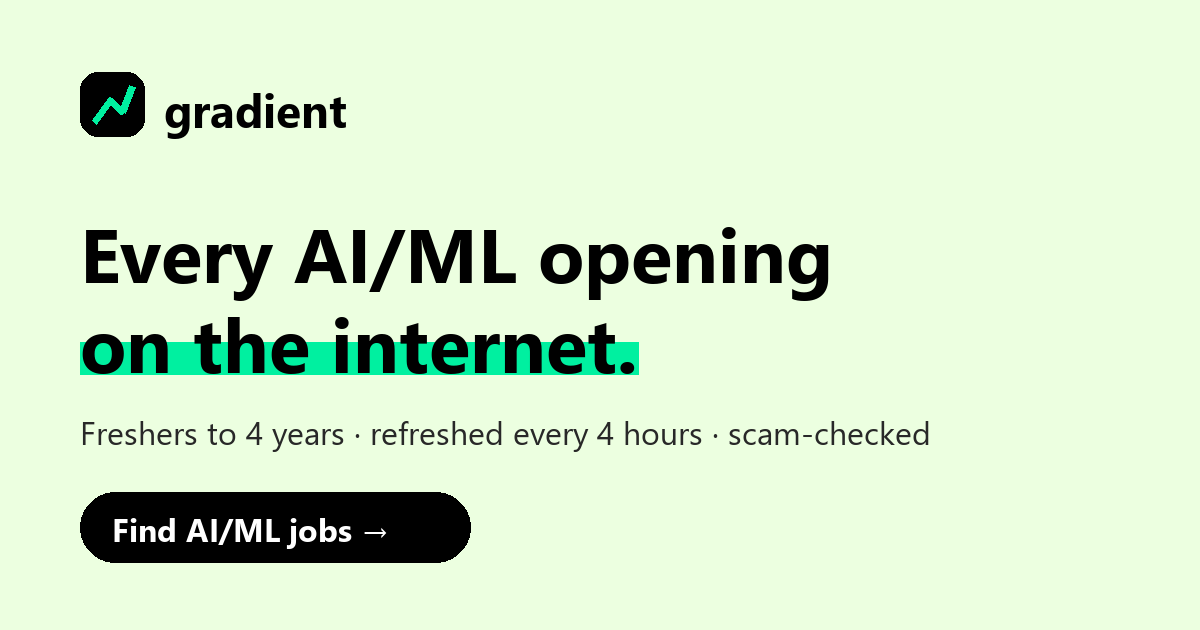
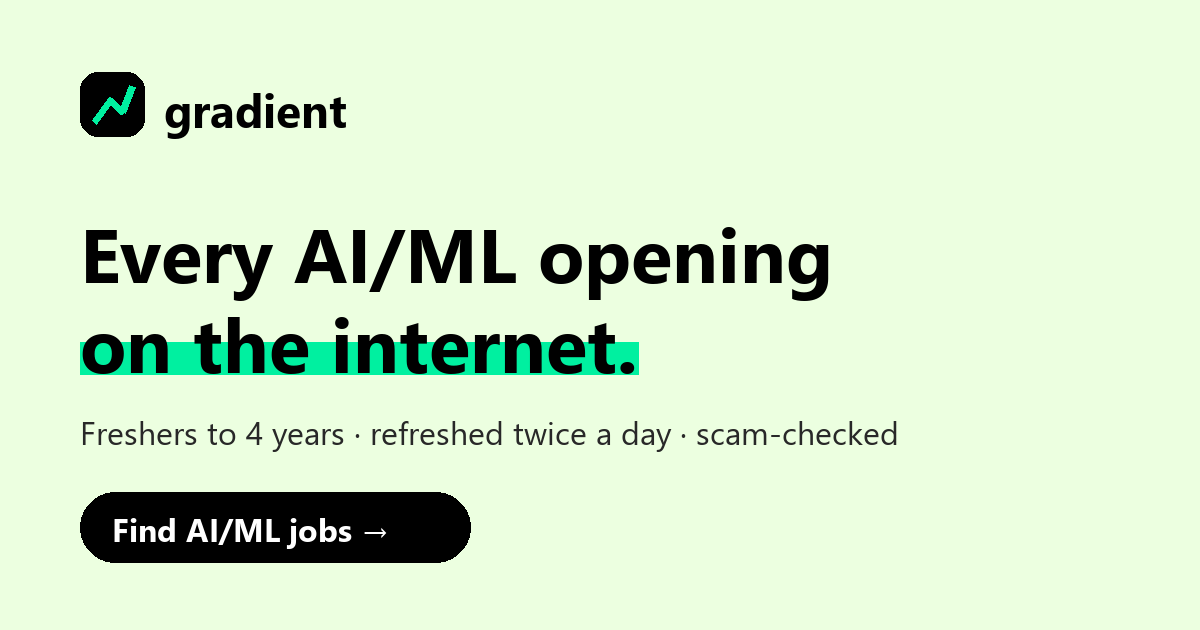
Scrape twice a day, and stop passing first-seen time off as the posted time
- Schedule: the scrape workflow now runs at 06:00 and 18:00 IST (cron 30 0,12 * * *);
  scrape_interval_hours defaults to 12, so the status page, next-run time and the
  "new since last sweep" stat follow it. Site copy, docs and the share image updated.
- Posted times: sources without a date (JazzHR, some YC, HN ...) used to show the time we
  first found the job as "posted by employer". Now posted_at is the source's date, or the
  sweep time when the job appears on a listing we had already swept, otherwise unknown.
  Recency filters and the newest sort use only real posted times (undated jobs sort after
  dated ones), the job page says "Not given", and each sweep clears the borrowed times
  stored before this change. Jobs filter "Last 4h" becomes "Last 12h".

Changed region(s): [[0.4317, 0.6635, 0.7708, 0.7238]]

diff --git a/frontend/src/pages/Home.tsx b/frontend/src/pages/Home.tsx
@@ -16,7 +16,7 @@ const QUICK = [
 
 const FAQ = [
   ["Where do the jobs come from?", "Straight from employer career systems (Greenhouse, Lever, Ashby, Workday, SmartRecruiters, Workable, Recruitee), big-tech career APIs (Amazon, Microsoft), LinkedIn's public listings, SimplifyJobs' new-grad and internship lists, Hacker News 'Who is hiring' and remote job boards. Every apply link we see teaches us a new company board, so coverage grows every run."],
-  ["How fresh is it?", "A full sweep runs every 4 hours. Each job shows when the employer published it and when we first saw it, so 'live for 3h' means exactly that."],
+  ["How fresh is it?", "A full sweep runs twice a day (06:00 and 18:00 IST). Each job shows when the employer published it and when we first saw it, so 'live for 3h' means exactly that. When a site gives no date we say so instead of guessing."],
   ["How do you know a job is closed?", "Employer ATS feeds list every open role, so a job that disappears from two consecutive sweeps — or whose page returns 404 or 'no longer accepting applications' — moves to Closed with the evidence attached."],
   ["How do you spot scams?", "Every job gets an explainable trust score: posted on the employer's own system, apply link on the company domain, and cross-listings raise it; fees, WhatsApp/Telegram contact, free-mail recruiters, guaranteed income and copy-paste text across companies lower it. Likely scams are hidden by default."],
   ["Who is this for?", "Anyone from fresher to about 4 years of experience looking for ML, data science, AI/LLM, computer vision, NLP, MLOps, research or data roles. Senior, staff, lead and 5+ year roles are filtered out."],
@@ -55,7 +55,7 @@ export default function Home() {
             Every <span className="hl">AI/ML opening</span> on the internet. Built for 0–4 years.
           </h1>
           <p className="lead">
-            Pulled from company career portals, LinkedIn and job boards every 4 hours — de-duplicated, scam-checked,
+            Pulled from company career portals, LinkedIn and job boards twice a day — de-duplicated, scam-checked,
             and dropped the moment a role closes.
           </p>
           <form className="search-pill" onSubmit={search} role="search">
@@ -105,7 +105,7 @@ export default function Home() {
               <div className="empty" style={{ gridColumn: "1 / -1" }}>
                 {stats?.running
                   ? "The first sweep is running — new roles appear here as each source finishes."
-                  : "No roles yet. The next sweep fills this in; sweeps run every 4 hours."}
+                  : "No roles yet. The next sweep fills this in; sweeps run twice a day."}
               </div>
             )}
           </div>

diff --git a/frontend/src/pages/Jobs.tsx b/frontend/src/pages/Jobs.tsx
@@ -8,7 +8,7 @@ const FAMILIES = ["ML Engineer", "Data Scientist", "AI Engineer / LLM", "Researc
   "MLOps & ML Platform", "AI Product Engineering", "Data & Analytics"];
 const REGIONS: [string, string][] = [["bengaluru", "Bengaluru"], ["india", "India"], ["remote", "Remote"], ["north-america", "US & Canada"], ["europe", "Europe & UK"]];
 const EXP: [string, string][] = [["", "Any"], ["fresher", "Fresher / intern"], ["1-2", "1–2 yrs"], ["2-4", "2–4 yrs"], ["no-intern", "No internships"]];
-const POSTED: [string, string][] = [["", "Any time"], ["4", "Last 4h"], ["24", "24h"], ["72", "3 days"], ["168", "7 days"], ["720", "30 days"]];
+const POSTED: [string, string][] = [["", "Any time"], ["12", "Last 12h"], ["24", "24h"], ["72", "3 days"], ["168", "7 days"], ["720", "30 days"]];
 const TRUST: [string, string][] = [["default", "Hide scams"], ["genuine", "Genuine+"], ["verified", "Verified only"], ["all", "Show all"]];
 const KINDS: [string, string][] = [["ats", "Company ATS"], ["bigtech", "Big tech"], ["linkedin", "LinkedIn"], ["board", "Job boards"], ["community", "HN"]];
 

diff --git a/frontend/src/pages/Apply.tsx b/frontend/src/pages/Apply.tsx
@@ -170,7 +170,7 @@ function ScrapePanel({ enabled, onDone }: { enabled: boolean; onDone: () => void
   };
 
   if (!enabled) {
-    return <p className="owner-note">Scrape-now button is off: add GRADIENT_GITHUB_TOKEN on Render. Sweeps still run every 4 hours.</p>;
+    return <p className="owner-note">Scrape-now button is off: add GRADIENT_GITHUB_TOKEN on Render. Sweeps still run twice a day.</p>;
   }
   const startedAt = st?.run ? new Date(st.run.started_at ?? st.run.created_at).getTime() : 0;
   const elapsed = running ? Math.max(0, (now - startedAt) / 1000) : 0;

diff --git a/frontend/src/components/ui.tsx b/frontend/src/components/ui.tsx
@@ -39,7 +39,7 @@ export function Footer() {
           <Logo />
           <p style={{ maxWidth: 420 }}>
             AI/ML openings for freshers to 4 years of experience, aggregated from employer career systems, LinkedIn and
-            public job boards. Refreshed every 4 hours. We link to the original posting; apply on the employer's site.
+            public job boards. Refreshed twice a day. We link to the original posting; apply on the employer's site.
           </p>
         </div>
         <div style={{ display: "flex", gap: 40 }}>

diff --git a/frontend/src/components/JobDetailView.tsx b/frontend/src/components/JobDetailView.tsx
@@ -33,7 +33,7 @@ export function JobDetailView({ job }: { job: JobDetail }) {
       )}
 
       <div className="timeline">
-        <div><b>{timeAgo(job.live_since)}</b><span>Posted by employer</span></div>
+        <div><b>{job.live_since ? timeAgo(job.live_since) : "Not given"}</b><span>Posted by employer</span></div>
         <div><b>{timeAgo(job.first_seen_at)}</b><span>First seen by us</span></div>
         <div><b>{timeAgo(job.last_verified_at)}</b><span>Last verified live</span></div>
       </div>

diff --git a/backend/gradient/ingest/pipeline.py b/backend/gradient/ingest/pipeline.py
@@ -7,7 +7,7 @@ import logging
 import re
 import time
 from collections import defaultdict
-from datetime import timedelta
+from datetime import datetime, timedelta, timezone
 
 from sqlalchemy import delete, func, select, update
 from sqlalchemy.orm import Session
@@ -128,6 +128,9 @@ def _process_source(session: Session, run: ScrapeRun, src: Source, result: Fetch
 
     existing = {j.source_job_id: j for j in session.scalars(select(Job).where(Job.source_key == src.key))}
     new = kept = closed = reopened = 0
+    # A job without a source date that shows up on a listing we had already swept was posted
+    # since that sweep, so "now" is an honest posted time. On a first sweep it stays unknown.
+    swept_before = bool(board.last_ok_at) if board else bool(existing)
 
     for raw in result.jobs:
         if not raw.source_job_id or not raw.title:
@@ -166,6 +169,7 @@ def _process_source(session: Session, run: ScrapeRun, src: Source, result: Fetch
                 closed += 1
             continue
 
+        is_new = job is None
         if job is None:
             job = Job(source=src.name, source_key=src.key, source_kind=src.kind, source_job_id=raw.source_job_id,
                       authoritative=src.authoritative, first_seen_at=now, last_seen_at=now, status="open")
@@ -178,6 +182,8 @@ def _process_source(session: Session, run: ScrapeRun, src: Source, result: Fetch
             reopened += 1
 
         _apply(job, raw, src, description, cls, now)
+        if is_new and job.posted_at is None and swept_before:
+            job.posted_at = now
         job.content_hash = chash
         job.last_seen_at = job.last_verified_at = now
         job.missed_runs = 0
@@ -238,7 +244,8 @@ def dedupe_and_score(session: Session, fingerprints: set[str]) -> None:
             open_jobs = [j for j in group if j.status == "open"]
             canonical = max(open_jobs, key=lambda j: (job_priority(j), -aware(j.first_seen_at).timestamp())) if open_jobs else None
             on_ats = any(j.source_kind in ("ats", "bigtech") for j in open_jobs)
-            earliest = min((aware(j.posted_at) or aware(j.first_seen_at) for j in open_jobs), default=None)
+            # Only real posted times count: first_seen_at is when we found it, not when it was posted.
+            earliest = min((aware(j.posted_at) for j in open_jobs if j.posted_at), default=None)
             for job in group:
                 job.duplicate_of = None if canonical is None or job is canonical or job.status != "open" else canonical.id
                 if job is canonical and earliest and (job.posted_at is None or earliest < aware(job.posted_at)):
@@ -253,6 +260,18 @@ def dedupe_and_score(session: Session, fingerprints: set[str]) -> None:
                 )
                 job.trust_score, job.trust_label, job.trust_reasons = t.score, t.label, t.reasons
         session.flush()
+
+
+# Before this cutoff, jobs without a source date were given first_seen_at as their posted time.
+_BORROWED_POSTED_CUTOFF = datetime(2026, 11, 19, 13, 0, tzinfo=timezone.utc)
+
+
+def clear_borrowed_posted_times(session: Session) -> int:
+    """Un-set those borrowed posted times (identical to first_seen_at). Idempotent, cheap."""
+    return session.execute(
+        update(Job).where(Job.posted_at.is_not(None), Job.posted_at == Job.first_seen_at,
+                          Job.first_seen_at < _BORROWED_POSTED_CUTOFF).values(posted_at=None)
+    ).rowcount
 
 
 def prune(session: Session) -> dict:
@@ -304,6 +323,7 @@ async def run_pipeline(trigger: str = "manual", only: set[str] | None = None, li
         # A run killed mid-way (deploy, crash) would otherwise show "running" forever.
         s.execute(update(ScrapeRun).where(ScrapeRun.status == "running", ScrapeRun.started_at < utcnow() - timedelta(hours=2))
                   .values(status="failed", finished_at=utcnow()))
+        clear_borrowed_posted_times(s)
         run = ScrapeRun(started_at=utcnow(), trigger=trigger, status="running")
         s.add(run)
         s.flush()

diff --git a/backend/gradient/api/app.py b/backend/gradient/api/app.py
@@ -81,7 +81,9 @@ def rate_limit(request: Request, key: str, per_minute: int) -> None:
 
 
 def live_since(job: Job):
-    return aware(job.posted_at) or aware(job.first_seen_at)
+    # The employer's publish time (or the sweep that first showed it on an already-known board).
+    # None means the source gives no date; first_seen_at is never passed off as a posted time.
+    return aware(job.posted_at)
 
 
 def iso(dt):
@@ -109,7 +111,7 @@ def _salary(job: Job) -> dict | None:
     return {"min": job.salary_min, "max": job.salary_max, "currency": job.salary_currency, "period": job.salary_period}
 
 
-# Data changes once per sweep (every 4h), so short-lived response caching is safe and keeps
+# Data changes once per sweep (every 12h), so short-lived response caching is safe and keeps
 # page-load endpoints well under a second. Bounded so odd query strings can't grow memory.
 _cache: dict = {}
 _cache_lock = threading.Lock()
@@ -132,7 +134,7 @@ def db() -> Session:
     return SessionLocal()
 
 
-LIVE_SINCE = func.coalesce(Job.posted_at, Job.first_seen_at)
+LIVE_SINCE = Job.posted_at  # NULL = date not given; such jobs sort after dated ones
 
 
 def _filters(q, family, exp, region, posted_within, trust, kind, status):
@@ -202,7 +204,7 @@ def list_jobs(
 
 def _list_jobs(q, family, exp, region, posted_within, trust, kind, status, sort, page, page_size):
     conds = _filters(q, family, exp, region, posted_within, trust, kind, status)
-    order = {"newest": LIVE_SINCE.desc(), "trust": Job.trust_score.desc(), "closed": Job.closed_at.desc()}[sort]
+    order = {"newest": LIVE_SINCE.desc().nulls_last(), "trust": Job.trust_score.desc(), "closed": Job.closed_at.desc()}[sort]
     with db() as s:
         total = s.scalar(select(func.count()).select_from(Job).where(*conds))
         rows = s.scalars(select(Job).options(defer(Job.description), defer(Job.trust_reasons))  # list view never shows them
@@ -250,7 +252,7 @@ def _stats():
         # One pass over open canonical jobs instead of a COUNT query per tile.
         open_n, companies, new_4h, new_24h, india, remote, verified = s.execute(
             select(func.count(), func.count(func.distinct(Job.company)),
-                   n(Job.first_seen_at >= now - timedelta(hours=4)), n(LIVE_SINCE >= now - timedelta(hours=24)),
+                   n(Job.first_seen_at >= now - timedelta(hours=settings.scrape_interval_hours)), n(LIVE_SINCE >= now - timedelta(hours=24)),
                    n(Job.country == "India"), n(Job.work_mode == "remote"), n(Job.trust_label == "verified"))
             .where(*base)
         ).one()
@@ -263,7 +265,7 @@ def _stats():
         ticker = s.execute(select(Job.id, Job.title, Job.company, Job.city, Job.work_mode)
                            .where(*base, Job.trust_label.in_(["verified", "likely_genuine"]),
                                   Job.role_family != "Data & Analytics", Job.seniority != "intern")
-                           .order_by(LIVE_SINCE.desc()).limit(300)).all()
+                           .order_by(LIVE_SINCE.desc().nulls_last(), Job.id.desc()).limit(300)).all()
         seen_companies: set[str] = set()
         ticker = [j for j in ticker if not (j.company in seen_companies or seen_companies.add(j.company))][:24]  # one per company
     last_finished = aware(last.finished_at) if last else None

diff --git a/backend/tests/test_lifecycle.py b/backend/tests/test_lifecycle.py
@@ -127,3 +127,34 @@ def test_retention_prunes_only_old_closed_data():
     assert job("1").description == "" and job("3").description  # open job untouched
     with session_scope() as s:
         assert s.scalars(select(Job).where(Job.source_job_id == "2")).first() is None
+
+
+def test_undated_job_on_first_sweep_has_no_posted_time():
+    src = FakeAts("acme", "Acme AI")
+    sweep(src, [raw("1")])  # raw() carries no posted_at
+    assert job("1").posted_at is None  # first_seen_at is not passed off as a posted time
+
+
+def test_undated_job_appearing_on_an_already_swept_listing_is_posted_now():
+    src = FakeAts("acme", "Acme AI")
+    sweep(src, [raw("1")])
+    sweep(src, [raw("1"), raw("2", title="Data Scientist")])
+    assert job("1").posted_at is None
+    assert job("2").posted_at is not None
+
+
+def test_borrowed_posted_times_are_cleared():
+    from datetime import timedelta
+
+    from gradient.ingest.pipeline import clear_borrowed_posted_times
+
+    src = FakeAts("acme", "Acme AI")
+    sweep(src, [raw("1"), raw("2", title="Data Scientist")])
+    old = utcnow() - timedelta(days=3)
+    with session_scope() as s:
+        for j in s.scalars(select(Job)):
+            j.first_seen_at = old
+            j.posted_at = old if j.source_job_id == "1" else old - timedelta(days=2)  # 1 borrowed, 2 a real date
+    with session_scope() as s:
+        assert clear_borrowed_posted_times(s) == 1
+    assert job("1").posted_at is None and job("2").posted_at is not None

diff --git a/frontend/scripts/make_og.py b/frontend/scripts/make_og.py
@@ -36,7 +36,7 @@ y2 = 290
 d.rectangle((80, y2 + 52, 80 + d.textlength("on the internet.", font=headline), y2 + 84), fill=MINT)
 d.text((80, y2), "on the internet.", font=headline, fill=INK)
 
-d.text((80, 410), "Freshers to 4 years · refreshed every 4 hours · scam-checked",
+d.text((80, 410), "Freshers to 4 years · refreshed twice a day · scam-checked",
        font=font(regular, 32), fill=(40, 40, 40))
 
 # Pill

diff --git a/backend/gradient/config.py b/backend/gradient/config.py
@@ -17,7 +17,7 @@ class Settings(BaseSettings):
     frontend_dist: Path = BACKEND_DIR.parent / "frontend" / "dist"
 
     # Scheduling
-    scrape_interval_hours: int = 4
+    scrape_interval_hours: int = 12  # two sweeps a day: 06:00 and 18:00 IST
     run_on_start: bool = False
     # Single-container deploys: run the scheduler inside the API process (one machine, one disk).
     embedded_worker: bool = False

diff --git a/ARCHITECTURE.md b/ARCHITECTURE.md
@@ -21,7 +21,7 @@ trust-scores and lifecycle-tracks every posting.
 ## System diagram
 
 ```
-            ┌────────────────────────── worker (every 4h) ──────────────────────────┐
+            ┌────────────────────────── worker (every 12h) ─────────────────────────┐
             │                                                                        │
  sources ──▶│ fetch (Scrapling, per-host throttle) → normalise → classify → dedupe   │
  registry   │        → trust-score → upsert → lifecycle (close/reopen) → liveness    │
@@ -69,10 +69,10 @@ trust-scores and lifecycle-tracks every posting.
 
 ## Scheduling
 
-Full run every **4 hours** (00, 04, 08, 12, 16, 20 IST). ATS boards change slowly and
-early-career roles fill in days, not hours, so a 4h freshness window keeps "posted X hours ago"
+Full run every **12 hours** (06:00 and 18:00 IST). ATS boards change slowly and
+early-career roles fill in days, not hours, so two sweeps a day keep "posted X hours ago"
 honest. It is also polite to every API. Sources with stricter limits declare `min_interval_hours`
-(Remotive asks for at most 4 calls a day, so it gets 6h); the scheduler skips them until due.
+(Remotive asks for at most 4 calls a day, so it gets 12h); the scheduler skips them until due.
 
 ## Data model (`backend/gradient/models.py`)
 

diff --git a/README.md b/README.md
@@ -3,7 +3,7 @@
 **Every AI/ML job on the internet, for freshers to 4 years of experience.**
 
 Gradient sweeps employer career systems, big-tech careers APIs, LinkedIn's public job pages
-and public job boards every 4 hours. It keeps only AI/ML roles you can actually get, shows
+and public job boards twice a day. It keeps only AI/ML roles you can actually get, shows
 exactly how long each one has been live, flags scams with an explainable trust score, moves
 filled or removed roles to *Closed*, and ranks everything against your résumé.
 
@@ -64,7 +64,7 @@ Step-by-step hosting guide (Fly.io, Railway, Render, VPS, Oracle Free): [DEPLOY.
 
 `docker compose up -d --build` runs the API (serving the built SPA) and the worker from one image,
 sharing a SQLite volume. For managed hosting, point `GRADIENT_DATABASE_URL` at Postgres for both processes.
-Alternatively, skip the worker and enable `.github/workflows/scrape.yml` (cron every 4h).
+Alternatively, skip the worker and enable `.github/workflows/scrape.yml` (cron twice a day, 06:00 and 18:00 IST).
 
 ## Growing coverage
 
